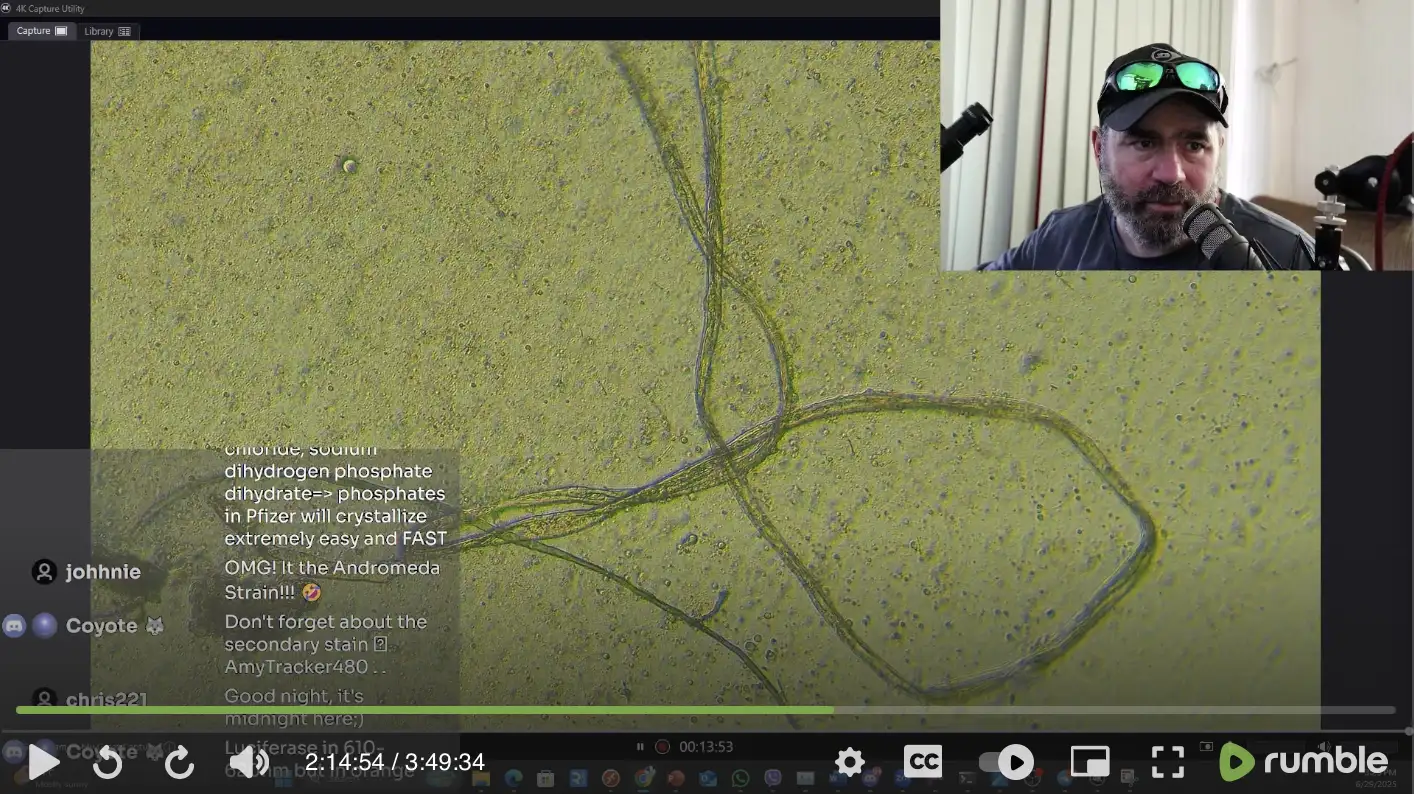
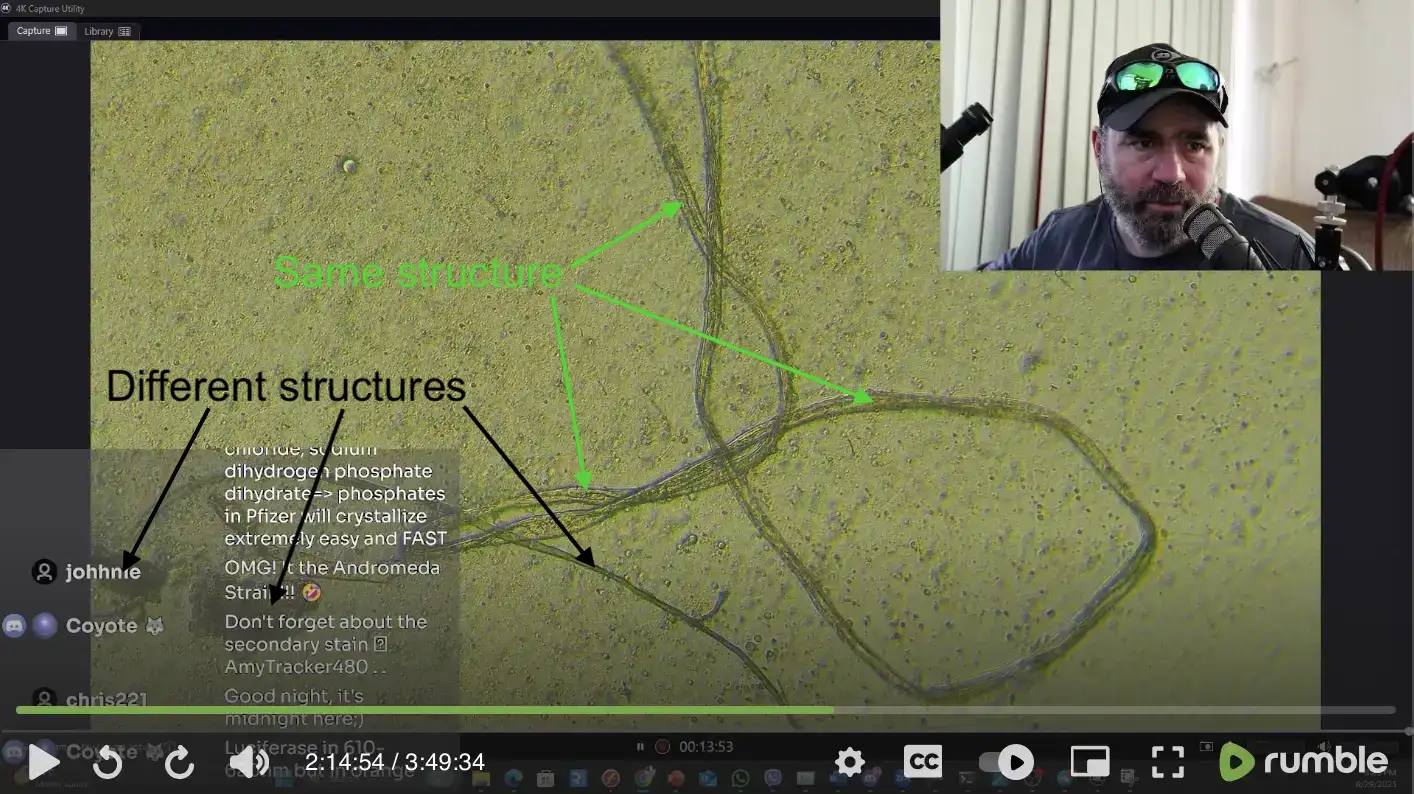
a

diff --git a/clot3.html b/clot3.html
@@ -2546,16 +2546,16 @@ fiber that supposedly took up Thioflavin was already autofluorescent
 even without the ThT.</p>
 <p>He also showed this fiber in the Moderna vaccine sample, which might
 be some textile fiber because it has a fairly uniform diameter of about
-2-3 red blood cells <span class="quote">(but the narrower fiber towards
-the bottom left side is a different fiber)</span>:</p>
+2-3 red blood cells <span class="quote">(but the structures towards the
+bottom left side are not connected to the fiber)</span>:</p>
 <div>
 <img src=i/clot-moderna-autofluorescent4.webp width=600>
 </div>
-<p>The sample included multiple different types of fibers, some of which
-may have been fungal or bacterial. Many bacteria and fungi glow in UV
-light, so UV lamps are specifically employed to detect bacteria or fungi
-on the surfaces of a room, or to see if a room has been cleaned
-properly.</p>
+<p>McCairn's slide included multiple different types of fibers and other
+structures, some of which may have been fungal or bacterial. Many
+bacteria and fungi glow in UV light, so UV lamps are specifically
+employed to detect bacteria or fungi on the surfaces of a room, or to
+see if a room has been cleaned properly.</p>
 <p>The so-called <span class="quote">"amyloidogenic fibril"</span> that
 McCairn found the blood of the 3-year-old may have also been a false
 positive, because it was similarly autofluorescent even without ThT
@@ -4803,8 +4803,13 @@ McCairn's treatment. He also speculated that the stem cell growth
 factors <span class="quote">"repair demons"</span>, which makes it seem
 like he didn't understand the purpose of the treatment well enough to
 have informed consent.</p>
-<p>But regardless of whether the reduced numbness is due to circulatory
-or neurological</p>
+<hr />
+<p>Added later: NarfGb and Maria Gutschi also posted these two follow-up
+posts:
+<a href=https://genervter.substack.com/p/even-more-sceptical>https://<wbr>genervter.<wbr>substack.<wbr>com/<wbr>p/<wbr>even-<wbr>more-<wbr>sceptical</a>,
+<a href=https://mariagutschi.substack.com/p/the-dfppshed-exosome-protocol-for.><a
+href="https://mariagutschi.substack.com/p/the-dfppshed-exosome-protocol-for"
+class="uri">https://<wbr>mariagutschi.<wbr>substack.<wbr>com/<wbr>p/<wbr>the-<wbr>dfppshed-<wbr>exosome-<wbr>protocol-<wbr>for</a>.</a></p>
 <div id=pagenumber></div>
 <script>
 document.querySelectorAll('.spoiler button').forEach(x=>{